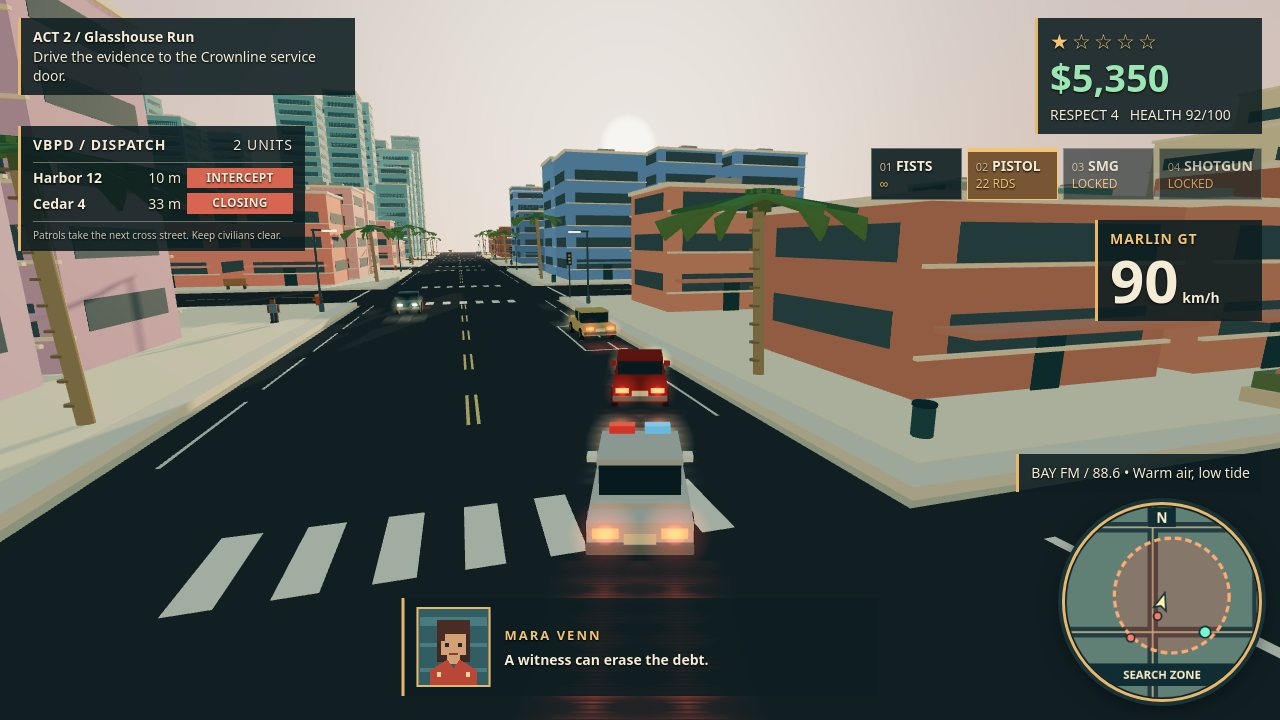
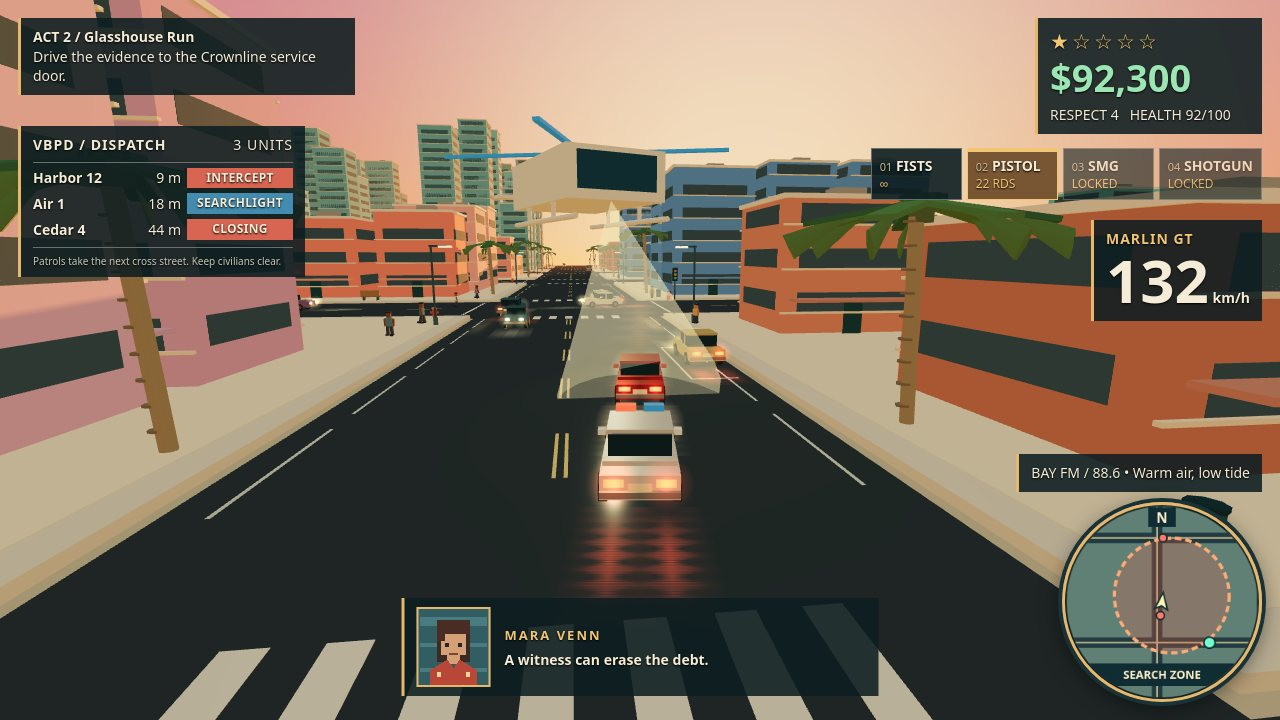
v2 phase 7: refine vs rank 1 (golden hour, heli, wet road, garage prices, search zone, big numbers, density)

diff --git a/game/src/shots/ShotScenes.js b/game/src/shots/ShotScenes.js
@@ -1,10 +1,44 @@
 import { VehicleFire } from '../render/VehicleFire.js';
+import { reflectedLight } from '../render/RoadSheen.js';
 
+// Phase 7: rank-1-scale money with a rising arc across shots, golden-hour
+// clocks on every shot, and driving headings near the road axis so the
+// faster staged cars stay on the asphalt through the capture settle.
 const STAGES = {
-  coverHeliChase: { x: 72, z: -72, hour: 17.2, money: 4280, respect: 2, wanted: 3, mission: 2, driving: true, health: 79, ammo: 19, heli: true },
-  driveCarjacking: { x: -72, z: 72, hour: 16.4, money: 5350, respect: 4, wanted: 1, mission: 5, driving: true, health: 92, ammo: 22 },
-  onFootCombat: { x: 0, z: 0, hour: 17.1, money: 6720, respect: 6, wanted: 2, mission: 11, driving: false, health: 61, ammo: 14, enemies: true, camera: { heading: -0.3, pitch: 0.18, distance: 0.8 } },
-  garageEconomy: { x: -72, z: 216, hour: 16.8, money: 12850, respect: 10, wanted: 0, mission: 14, driving: false, health: 100, ammo: 24, garage: true, heading: -Math.PI / 2, camera: { heading: -Math.PI / 2, pitch: 0.14, distance: 0.8 } },
+  coverHeliChase: { x: 66, z: -72, hour: 17.2, money: 86250, respect: 2, wanted: 3, mission: 2, driving: true, health: 79, ammo: 19, heli: true, heading: -0.15, speed: 34 },
+  driveCarjacking: { x: -72, z: 72, hour: 17.3, money: 92300, respect: 4, wanted: 1, mission: 5, driving: true, health: 92, ammo: 22, heading: -0.12, speed: 38.5 },
+  onFootCombat: { x: 0, z: 0, hour: 17.1, money: 104750, respect: 6, wanted: 2, mission: 11, driving: false, health: 61, ammo: 14, enemies: true, camera: { heading: -0.3, pitch: 0.18, distance: 0.8 } },
+  garageEconomy: { x: -72, z: 216, hour: 17.4, money: 128900, respect: 10, wanted: 0, mission: 14, driving: false, health: 100, ammo: 24, garage: true, heading: -Math.PI / 2, camera: { heading: -Math.PI / 2, pitch: 0.14, distance: 0.8 } },
+};
+
+// Sidewalk spots in frame at capture time (the staged car travels ~40 m
+// during the settle, so spots sit ahead of the stage position).
+const CROWD_SPOTS = {
+  coverHeliChase: [[60, -100], [84, -102], [60, -115], [84, -118], [60, -130], [84, -128]],
+  driveCarjacking: [[-60, 20], [-84, 18], [-60, 5], [-84, 2], [-60, -10], [-84, -12]],
+  onFootCombat: [[-11, -12], [11, -14], [-11, -25], [11, -28], [-12, -40], [12, -38]],
+  garageEconomy: [[-55, 205], [-40, 227], [-25, 205], [-5, 227], [15, 205], [35, 227]],
+};
+
+// Extra traffic in frame at capture. Parked/ownerless cars hold still, so
+// they sit clear of the player car's lane through the settle.
+const STAGED_TRAFFIC = {
+  coverHeliChase: [
+    { x: 78, z: -125, heading: 0.15, model: 1 }, { x: 68, z: -138, heading: -0.1, model: 2 },
+    { x: 50, z: -144, heading: Math.PI / 2, model: 3 }, { x: 96, z: -144, heading: -Math.PI / 2, model: 0 },
+  ],
+  driveCarjacking: [
+    { x: -78, z: 8, heading: -0.1, model: 2 }, { x: -68, z: -4, heading: 0.12, model: 0 },
+    { x: -40, z: 0, heading: Math.PI / 2, model: 1 }, { x: -104, z: 0, heading: -Math.PI / 2, model: 3 },
+  ],
+  onFootCombat: [
+    { x: 5, z: -26, heading: -0.1, model: 1 }, { x: -5, z: -42, heading: 0.1, model: 2 },
+    { x: -20, z: -72, heading: Math.PI / 2, model: 0 }, { x: 16, z: -72, heading: -Math.PI / 2, model: 3 },
+  ],
+  garageEconomy: [
+    { x: -40, z: 212, heading: -Math.PI / 2, model: 1 }, { x: -10, z: 220, heading: Math.PI / 2, model: 2 },
+    { x: 25, z: 211, heading: -Math.PI / 2, model: 0 }, { x: 55, z: 219, heading: Math.PI / 2, model: 3 },
+  ],
 };
 
 export function createShotScenes(app) {
@@ -12,6 +46,7 @@ export function createShotScenes(app) {
     const config = STAGES[name]; if (!config) throw Error(`Unknown ShotScene: ${name}`);
     const { state, player, vehicles, systems } = app;
     app.vehicleFire?.dispose(app.scene); app.vehicleFire = null;
+    if (app.sunGlare) { app.scene.remove(app.sunGlare); app.sunGlare = null; }
     if (app.burnedCar) {
       app.scene.remove(app.burnedCar.group);
       vehicles.cars.splice(vehicles.cars.indexOf(app.burnedCar), 1); app.burnedCar = null;
@@ -22,6 +57,8 @@ export function createShotScenes(app) {
     }
     systems.police.units.length = 0;
     if (systems.police.heli) { app.scene.remove(systems.police.heli.root); systems.police.heli = null; }
+    systems.police.pinHeli = false;
+    systems.police.searchZone = name === 'garageEconomy';
     state.teleportPlayer(config.x, config.z, config.heading ?? -0.3);
     state.setTimeOfDay(config.hour); state.setMoney(config.money); state.setRespect(config.respect);
     systems.wanted.heat.clear(); systems.wanted.lastCrime = 0; systems.wanted.setLevel(config.wanted);
@@ -37,32 +74,88 @@ export function createShotScenes(app) {
     }
     if (config.driving) {
       let car = player.car;
-      if (!car) { car = vehicles.spawn(config.x, config.z, -0.3, { model: 0, color: '#b94737' }); vehicles.acquire(car); player.car = car; player.avatar.visible = false; }
-      car.position.set(config.x, 0.12, config.z); car.heading = -0.3; car.speed = name === 'coverHeliChase' ? 20 : 27; car.group.rotation.y = car.heading;
+      if (!car) { car = vehicles.spawn(config.x, config.z, config.heading ?? -0.3, { model: 0, color: '#b94737' }); vehicles.acquire(car); player.car = car; player.avatar.visible = false; }
+      car.position.set(config.x, 0.12, config.z); car.heading = config.heading ?? -0.3; car.speed = config.speed ?? 20; car.group.rotation.y = car.heading;
+      // A broad warm streak on the wet asphalt ahead of the car, riding with
+      // it through the settle so it is still in frame at capture.
+      if (!car.sunGlare) {
+        car.sunGlare = reflectedLight('#ff9a4d', 7, 55, 0.2);
+        car.sunGlare.position.set(0, 0.02, -30);
+        car.group.add(car.sunGlare);
+      }
     } else if (player.car) {
       const car = player.car; vehicles.release(car); player.car = null; player.avatar.visible = true; player.position.set(config.x, 0.32, config.z); player.avatar.position.copy(player.position);
     }
+    // The air unit is pinned for every shot: ensure() would otherwise drop
+    // it below wanted 3, and the staged heli is part of each frame.
+    const stageHeli = (scale, offset, yaw, beamWidth, beamOpacity, beamVisible = true) => {
+      if (!systems.police.heli) systems.police.heli = systems.police.createHeli();
+      systems.police.pinHeli = true;
+      systems.police.heli.root.scale.setScalar(scale);
+      systems.police.heli.offset = offset;
+      systems.police.heli.yawOffset = yaw;
+      if (beamWidth) systems.police.heli.beamWidth = beamWidth;
+      if (beamOpacity) systems.police.heli.searchlight.material.opacity = beamOpacity;
+      systems.police.heli.searchlight.visible = beamVisible;
+    };
     if (name === 'coverHeliChase') {
       systems.wanted.commitCrime(3); systems.wanted.setLevel(3);
       systems.dispatch.messages = [{ callsign: 'Harbor 12', text: 'Air unit has a visual. Road control ahead. All units converge.', district: state.city.districtAt(config.x,config.z).name, age: 0 }];
       systems.police.ensure(3, player);
-      systems.police.heli.root.scale.setScalar(2.1);
-      systems.police.heli.offset = { x: 1, y: -11, z: -11 };
-      systems.police.heli.yawOffset = 0.65;
+      stageHeli(2.8, { x: 2, y: -13.5, z: -15 }, 0.65);
       const pursuit = systems.police.units[0];
       pursuit.position.set(player.target.x + Math.sin(player.facing) * 8, 0.12, player.target.z + Math.cos(player.facing) * 8);
-      pursuit.heading = player.facing; pursuit.shotPursuitSpeed = 19; app.vehicles.animate(pursuit, 0);
-      app.vehicles.spawn(config.x + 18, config.z + 15, 0, { traffic: true, model: 1 });
+      pursuit.heading = player.facing; pursuit.shotPursuitSpeed = 33; app.vehicles.animate(pursuit, 0);
+      // Two static units hold a roadblock ahead of the capture point.
+      const blockers = [[68, -138, 0.5], [78, -152, -0.4]];
+      for (let i = 0; i < blockers.length && systems.police.units[i + 1]; i++) {
+        const unit = systems.police.units[i + 1];
+        unit.position.set(blockers[i][0], 0.12, blockers[i][1]);
+        unit.heading = blockers[i][2]; unit.shotPursuitSpeed = 0; app.vehicles.animate(unit, 0);
+      }
     }
     if (name === 'driveCarjacking') {
       systems.police.ensure(config.wanted, player);
+      stageHeli(2.6, { x: -2, y: -12, z: -18 }, 0.5, 0.22);
       const pursuit = systems.police.units[0];
       pursuit.position.set(player.target.x + Math.sin(player.facing) * 9, 0.12, player.target.z + Math.cos(player.facing) * 9);
-      pursuit.heading = player.facing; pursuit.shotPursuitSpeed = 24.5; app.vehicles.animate(pursuit, 0);
+      pursuit.heading = player.facing; pursuit.shotPursuitSpeed = 37; app.vehicles.animate(pursuit, 0);
+      if (systems.police.units[1]) {
+        const unit = systems.police.units[1];
+        unit.position.set(-68, 0.12, 0); unit.heading = 0.4; unit.shotPursuitSpeed = 0; app.vehicles.animate(unit, 0);
+      }
+    }
+    if (name === 'onFootCombat') {
+      stageHeli(2.6, { x: -2, y: -16.9, z: -25 }, 0.9, 0.12, 0.16, false);
+      app.sunGlare = reflectedLight('#ff9a4d', 7, 55, 0.2);
+      app.sunGlare.position.set(0, 0.12, -35);
+      app.scene.add(app.sunGlare);
     }
     if (name === 'garageEconomy') {
-      systems.shops.owned = new Set(['engine','armor','pistol']);
+      systems.shops.owned = new Set(['engine', 'armor', 'pistol', 'nitrous']);
       vehicles.spawn(config.x + 1, config.z - 2.8, -0.5, { model: 0, color: '#d1a44c' });
+      stageHeli(2.2, { x: 28, y: -12, z: 0 }, 0.9, 0.18, 0.2, false);
+      app.sunGlare = reflectedLight('#ff9a4d', 7, 55, 0.2);
+      app.sunGlare.position.set(-20, 0.12, 216);
+      app.sunGlare.rotation.set(-Math.PI / 2, 0, Math.PI / 2);
+      app.scene.add(app.sunGlare);
+    }
+    // Denser streets: staged traffic and a sidewalk crowd in frame.
+    for (const staged of STAGED_TRAFFIC[name]) {
+      vehicles.spawn(staged.x, staged.z, staged.heading, { traffic: true, model: staged.model });
+    }
+    const spots = CROWD_SPOTS[name];
+    const people = app.pedestrians.people;
+    let block = state.city.blocks[0]; let best = Infinity;
+    for (const candidate of state.city.blocks) {
+      const d = (candidate.x - config.x) ** 2 + (candidate.z - config.z) ** 2;
+      if (d < best) { best = d; block = candidate; }
+    }
+    for (let i = 0; i < spots.length && i < people.length; i++) {
+      const person = people[i];
+      person.route = app.pedestrians.perimeter(block, i % 2 === 0);
+      person.waypoint = 0;
+      person.root.position.set(spots[i][0], 0.36, spots[i][1]);
     }
     systems.missions.dialogue = name === 'coverHeliChase' ? 'INEZ / “The drive is in the trunk. Lose the air unit.”' : systems.missions.dialogue;
     app.chase.snap(player);

diff --git a/game/src/ui/Hud.js b/game/src/ui/Hud.js
@@ -40,7 +40,8 @@ export class Hud {
     c.strokeStyle='#c0b78f'; c.lineWidth=2;
     for (const x of city.roadsX) {const [px]=xy(x,0);c.beginPath();c.moveTo(px,0);c.lineTo(px,size);c.stroke();}
     for (const z of city.roadsZ) {const [,py]=xy(0,z);c.beginPath();c.moveTo(0,py);c.lineTo(size,py);c.stroke();}
-    if(snapshot.wanted.level) {
+    const showZone = snapshot.wanted.level || snapshot.police?.searchZone;
+    if(showZone) {
       c.beginPath(); c.arc(mid+12,mid-8,71,0,Math.PI*2);
       c.fillStyle='rgba(243,93,66,.25)'; c.fill();
       c.setLineDash([8,5]);c.strokeStyle='#ffab77';c.lineWidth=4;c.stroke();c.setLineDash([]);
@@ -53,7 +54,7 @@ export class Hud {
     c.textAlign='center';c.font='bold 17px system-ui';
     c.fillStyle='#102d34';c.fillRect(103,3,34,24);c.fillStyle='#fff1cc';c.fillText('N',120,22);
     c.fillStyle='#102d34';c.fillRect(17,196,206,28);c.fillStyle='#fff1cc';
-    c.font='bold 14px system-ui';c.fillText(snapshot.wanted.level?'SEARCH ZONE':snapshot.district.name,120,215);
+    c.font='bold 14px system-ui';c.fillText(showZone?'SEARCH ZONE':snapshot.district.name,120,215);
     c.restore();
   }
 
@@ -64,12 +65,12 @@ export class Hud {
     const distance = position => Math.round(Math.hypot(position.x-snapshot.player.x, position.z-snapshot.player.z));
     const names = ['Harbor 12','Cedar 4','North 21','Bay 6','Quay 9'];
     const rows = police.units.map((car,index) => ({ name:names[index], distance:distance(car.position), status:distance(car.position)<16?'INTERCEPT':'CLOSING', color:'#d76551' }));
-    if (police.heli) rows.push({ name:'Air 1', distance:distance(police.heli.root.position), status:'SEARCHLIGHT', color:'#438cb0' });
+    if (police.heli && snapshot.wanted.level) rows.push({ name:'Air 1', distance:distance(police.heli.root.position), status:'SEARCHLIGHT', color:'#438cb0' });
     rows.sort((a,b)=>a.distance-b.distance);
     const message = dispatch.snapshot()[0];
     this.nodes.dispatch.innerHTML=rows.length?`<div style="display:flex;justify-content:space-between;border-bottom:1px solid #69706a;padding-bottom:7px;margin-bottom:5px;letter-spacing:1px"><b>VBPD / DISPATCH</b><span>${rows.length} UNITS</span></div>${rows.map(row=>`<div style="display:grid;grid-template-columns:1fr 36px 106px;gap:6px;align-items:center;margin:5px 0"><b>${row.name}</b><span style="text-align:right">${row.distance} m</span><b style="background:${row.color};padding:2px 4px;text-align:center;font-size:12px;letter-spacing:.3px">${row.status}</b></div>`).join('')}${message?`<div style="font-size:10px;color:#c9c9b6;border-top:1px solid #69706a;padding-top:6px;margin-top:7px">${message.text}</div>`:''}`:'';
     const owned=snapshot.shop.catalog.filter(item=>item.owned);
-    this.nodes.garage.innerHTML=owned.length?`<b>KITE &amp; KEY / MOTOR WORKS</b><br>${owned.map(item=>`✓ ${item.name} / ${item.effect}`).join('<br>')}<br>UPGRADES ${owned.length}/${snapshot.shop.catalog.length}`:'';
+    this.nodes.garage.innerHTML=owned.length?`<b>KITE &amp; KEY / MOTOR WORKS</b>${owned.map(item=>`<div style="display:flex;justify-content:space-between;gap:8px;margin-top:7px"><span>✓ ${item.name}</span><b style="color:#9ce6b4">$${item.cost.toLocaleString()}</b></div><div style="font-size:11px;color:#c9c9b6">${item.effect}</div>`).join('')}<div style="margin-top:8px">UPGRADES ${owned.length}/${snapshot.shop.catalog.length}</div>`:'';
     this.nodes.vehicle.innerHTML=snapshot.player.mode==='driving'?`<b style="color:#f1c573;letter-spacing:1px">${snapshot.vehicleName.toUpperCase()}</b><div><b style="font-size:60px;line-height:1.05;font-variant-numeric:tabular-nums">${Math.round(Math.abs(snapshot.player.speed)*3.6)}</b> <b>km/h</b></div>`:snapshot.district.name;
     const dialogue = mission.dialogue || 'MARA VENN / VERMILION BAY';
     const speaker = dialogue.startsWith('INEZ /') ? 'INEZ' : 'MARA VENN';

diff --git a/game/src/police/PoliceAI.js b/game/src/police/PoliceAI.js
@@ -3,7 +3,7 @@ import * as THREE from 'three';
 export class PoliceAI {
   constructor(scene, vehicles, collision, state) {
     this.scene = scene; this.vehicles = vehicles; this.collision = collision; this.state = state;
-    this.units = []; this.heli = null; this.material = new THREE.MeshStandardMaterial({ color: '#e9e1ca', roughness: 0.55 });
+    this.units = []; this.heli = null; this.pinHeli = false; this.searchZone = false; this.material = new THREE.MeshStandardMaterial({ color: '#e9e1ca', roughness: 0.55 });
     this.red = new THREE.MeshStandardMaterial({ color: '#d84c40', emissive: '#9d211a', emissiveIntensity: 1.5 });
     this.blue = new THREE.MeshStandardMaterial({ color: '#4b9fce', emissive: '#174c76', emissiveIntensity: 1.5 });
   }
@@ -24,14 +24,14 @@ export class PoliceAI {
         strut.position.set(x, 8.3, z); root.add(strut);
       }
     }
-    const lamp = new THREE.SpotLight('#fff0b2', 2.5, 75, Math.PI / 7, 0.5, 1.2);
+    const lamp = new THREE.SpotLight('#fff0b2', 6, 75, Math.PI / 7, 0.5, 1.2);
     lamp.position.set(0, 8.4, 1.8); lamp.target.position.set(0, 0, -5); root.add(lamp, lamp.target);
     const rotor = new THREE.Mesh(new THREE.BoxGeometry(8, 0.08, 0.16), this.blue); rotor.position.y = 9.8; root.add(rotor);
     const crossRotor = new THREE.Mesh(rotor.geometry, rotor.material); crossRotor.rotation.y = Math.PI / 2; rotor.add(crossRotor);
-    const beamMaterial = new THREE.MeshStandardMaterial({ color: '#ffe9a6', emissive: '#927637', transparent: true, opacity: 0.18, depthWrite: false, side: THREE.DoubleSide });
+    const beamMaterial = new THREE.MeshStandardMaterial({ color: '#ffe9a6', emissive: '#c9a94f', emissiveIntensity: 1.6, transparent: true, opacity: 0.34, depthWrite: false, side: THREE.DoubleSide });
     const searchlight = new THREE.Mesh(new THREE.ConeGeometry(1, 1, 20), beamMaterial); searchlight.renderOrder = 1; root.add(searchlight);
     root.scale.setScalar(1.55);
-    this.scene.add(root); return { root, lamp, rotor, searchlight, offset: { x: 12, y: 0, z: -7 } };
+    this.scene.add(root); return { root, lamp, rotor, searchlight, offset: { x: 12, y: 0, z: -7 }, beamWidth: 0.26 };
   }
 
   ensure(level, player) {
@@ -50,7 +50,7 @@ export class PoliceAI {
       const car = this.units.pop(); this.scene.remove(car.group); this.vehicles.cars.splice(this.vehicles.cars.indexOf(car), 1);
     }
     if (level >= 3 && !this.heli) this.heli = this.createHeli();
-    if (level < 3 && this.heli) { this.scene.remove(this.heli.root); this.heli = null; }
+    if (level < 3 && this.heli && !this.pinHeli) { this.scene.remove(this.heli.root); this.heli = null; }
   }
 
   update(dt, level, player) {
@@ -86,10 +86,10 @@ export class PoliceAI {
       if (length > 0.01) {
         beam.position.copy(start).addScaledVector(direction, 0.5);
         beam.quaternion.setFromUnitVectors(new THREE.Vector3(0, 1, 0), direction.clone().negate().normalize());
-        beam.scale.set(length * 0.2, length, length * 0.2);
+        beam.scale.set(length * (this.heli.beamWidth ?? 0.26), length, length * (this.heli.beamWidth ?? 0.26));
       }
     }
   }
 
-  snapshot() { return { patrolCars: this.units.length, helicopter: Boolean(this.heli), roadblocks: this.state.values.wanted >= 3 }; }
+  snapshot() { return { patrolCars: this.units.length, helicopter: Boolean(this.heli), roadblocks: this.state.values.wanted >= 3, searchZone: this.searchZone }; }
 }

diff --git a/game/src/render/SkyAndSun.js b/game/src/render/SkyAndSun.js
@@ -19,9 +19,9 @@ const SKY_FRAGMENT = `
     float altitude = max(0.0, direction.y);
     vec3 color = mix(horizon, zenith, pow(altitude, 0.48));
     float alignment = max(0.0, dot(direction, sunDirection));
-    float glow = pow(alignment, 12.0) * 0.65;
+    float glow = pow(alignment, 9.0) * 0.9;
     float disc = smoothstep(0.9988, 0.99955, alignment);
-    color += solarColor * (glow + disc * 1.5);
+    color += solarColor * (glow + disc * 2.4);
     gl_FragColor = vec4(color, 1.0);
     #include <tonemapping_fragment>
     #include <colorspace_fragment>
@@ -85,22 +85,22 @@ export class SkyAndSun {
     this.sunDirection.set(-Math.cos(arc) * 0.30, Math.max(-0.2, elevation * 0.38), -0.95).normalize();
     const nightZenith = new THREE.Color('#142b48');
     const dayZenith = new THREE.Color('#76b7cc');
-    const warmZenith = new THREE.Color('#d69a82');
+    const warmZenith = new THREE.Color('#8f5a92');
     const dayHorizon = new THREE.Color('#d7ddd1');
-    const warmHorizon = new THREE.Color('#ff853f');
+    const warmHorizon = new THREE.Color('#ff7a26');
     const nightHorizon = new THREE.Color('#63586b');
     dayZenith.lerp(warmZenith, golden * 0.9);
     dayHorizon.lerp(warmHorizon, golden);
     this.uniforms.zenith.value.copy(nightZenith).lerp(dayZenith, daylight);
     this.uniforms.horizon.value.copy(nightHorizon).lerp(dayHorizon, daylight);
-    this.uniforms.solarColor.value.set(golden > 0.5 ? '#ffe1a1' : '#fff8dc');
-    this.sun.color.set('#fff4d9').lerp(new THREE.Color('#ffb864'), golden);
-    this.sun.intensity = daylight * (2.8 + golden * 0.6);
+    this.uniforms.solarColor.value.set(golden > 0.5 ? '#ffd27a' : '#fff8dc');
+    this.sun.color.set('#fff4d9').lerp(new THREE.Color('#ff9a3d'), golden);
+    this.sun.intensity = daylight * (3.0 + golden * 1.0);
     this.ambient.intensity = 0.6 + daylight * 2.3;
-    this.ambient.color.set('#9bbdca').lerp(new THREE.Color('#d6bba0'), golden * 0.35);
-    this.ambient.groundColor.set('#b8a989');
+    this.ambient.color.set('#9bbdca').lerp(new THREE.Color('#d6bba0'), golden * 0.6);
+    this.ambient.groundColor.set('#c49a6b');
     this.scene.fog.color.copy(this.uniforms.horizon.value);
-    this.renderer.toneMappingExposure = 0.9 + daylight * 0.12;
+    this.renderer.toneMappingExposure = 0.95 + daylight * 0.15;
     this.sun.visible = elevation > -0.12;
     return this.hour;
   }

diff --git a/game/src/world/CityBuilder.js b/game/src/world/CityBuilder.js
@@ -40,7 +40,7 @@ export class CityBuilder {
   }
 
   box(color, x, y, z, w, h, d, shadow = true) {
-    this.batch.add('box', this.batch.material(color, color === '#475356' ? 0.19 : 0.85, color === '#475356' ? 0.28 : 0), [x, y, z], [w, h, d], [0, 0, 0], shadow);
+    this.batch.add('box', this.batch.material(color, color === '#515e61' ? 0.14 : 0.85, color === '#515e61' ? 0.35 : 0), [x, y, z], [w, h, d], [0, 0, 0], shadow);
   }
 
   build() {
@@ -84,7 +84,7 @@ export class CityBuilder {
 
   streetGrid() {
     for (const x of this.roadsX) {
-      this.box('#475356', x, -0.01, 0, this.roadWidth, 0.16, 614, false);
+      this.box('#515e61', x, -0.01, 0, this.roadWidth, 0.16, 614, false);
       for (let z = -300; z < 305; z += 9) {
         const junction = this.roadsZ.some(road => Math.abs(road - z) < 13);
         if (junction) continue;
@@ -94,7 +94,7 @@ export class CityBuilder {
       }
     }
     for (const z of this.roadsZ) {
-      this.box('#475356', 0, 0, z, 451, 0.18, this.roadWidth, false);
+      this.box('#515e61', 0, 0, z, 451, 0.18, this.roadWidth, false);
       for (let x = -224; x < 225; x += 9) {
         if (this.roadsX.some(road => Math.abs(road - x) < 13)) continue;
         this.box('#e6c77a', x, 0.1, z, 4, 0.01, 0.16, false);
@@ -134,7 +134,7 @@ export class CityBuilder {
         const pz = z + bz * 14;
         const tint = new THREE.Color(district.color);
         // Quantized variations retain color variety while sharing instanced materials.
-        tint.offsetHSL(0, 0, (Math.floor(this.random() * 4) - 1.5) * 0.045);
+        tint.offsetHSL(0, 0.07, (Math.floor(this.random() * 4) - 1.5) * 0.045);
         this.building(px, pz, width, height, depth, '#' + tint.getHexString(), district);
       }
     }

diff --git a/game/src/economy/ShopsAndGarage.js b/game/src/economy/ShopsAndGarage.js
@@ -1,7 +1,8 @@
 const UPGRADES = [
-  { id: 'engine', name: 'Engine tune', cost: 650, effect: 'Top speed +8%' },
-  { id: 'armor', name: 'Reinforced panels', cost: 420, effect: 'Vehicle durability +20%' },
-  { id: 'pistol', name: 'Service pistol', cost: 280, effect: 'Pistol +24 rounds' },
+  { id: 'engine', name: 'Engine tune', cost: 250, effect: 'Top speed +8%' },
+  { id: 'armor', name: 'Reinforced panels', cost: 450, effect: 'Vehicle durability +20%' },
+  { id: 'pistol', name: 'Service pistol', cost: 1200, effect: 'Pistol +24 rounds' },
+  { id: 'nitrous', name: 'Nitrous kit', cost: 2500, effect: 'Boost acceleration +25%' },
 ];
 
 export class ShopsAndGarage {
@@ -11,6 +12,7 @@ export class ShopsAndGarage {
     if (this.state.values.money < item.cost) return { ok: false, reason: 'Insufficient funds', item };
     this.state.setMoney(this.state.values.money - item.cost); this.owned.add(id); this.lastPurchase = item.name;
     if (id === 'engine' && this.player.car) this.player.car.spec.topSpeed *= 1.08;
+    if (id === 'nitrous' && this.player.car) this.player.car.spec.acceleration *= 1.25;
     this.state.emit('purchase', item); return { ok: true, item, balance: this.state.values.money };
   }
   catalog() { return UPGRADES.map(item => ({ ...item, owned: this.owned.has(item.id) })); }

diff --git a/game/src/world/Props.js b/game/src/world/Props.js
@@ -61,7 +61,7 @@ export class Props {
     const lens=this.batch.material('#f7deb1');lens.emissive.set('#ffbf6c');lens.emissiveIntensity=2;
     const roadX=this.city.roadsX.reduce((a,b)=>Math.abs(a-x)<Math.abs(b-x)?a:b);
     if(Math.abs(roadX-x)<15) {
-      const reflection=reflectedLight('#ffbe70',1.6,8,.3);
+      const reflection=reflectedLight('#ffbe70',2.0,12,.5);
       reflection.position.set(roadX+Math.sign(x-roadX)*7.7,.145,z+dz);this.group.add(reflection);
     }
   }
